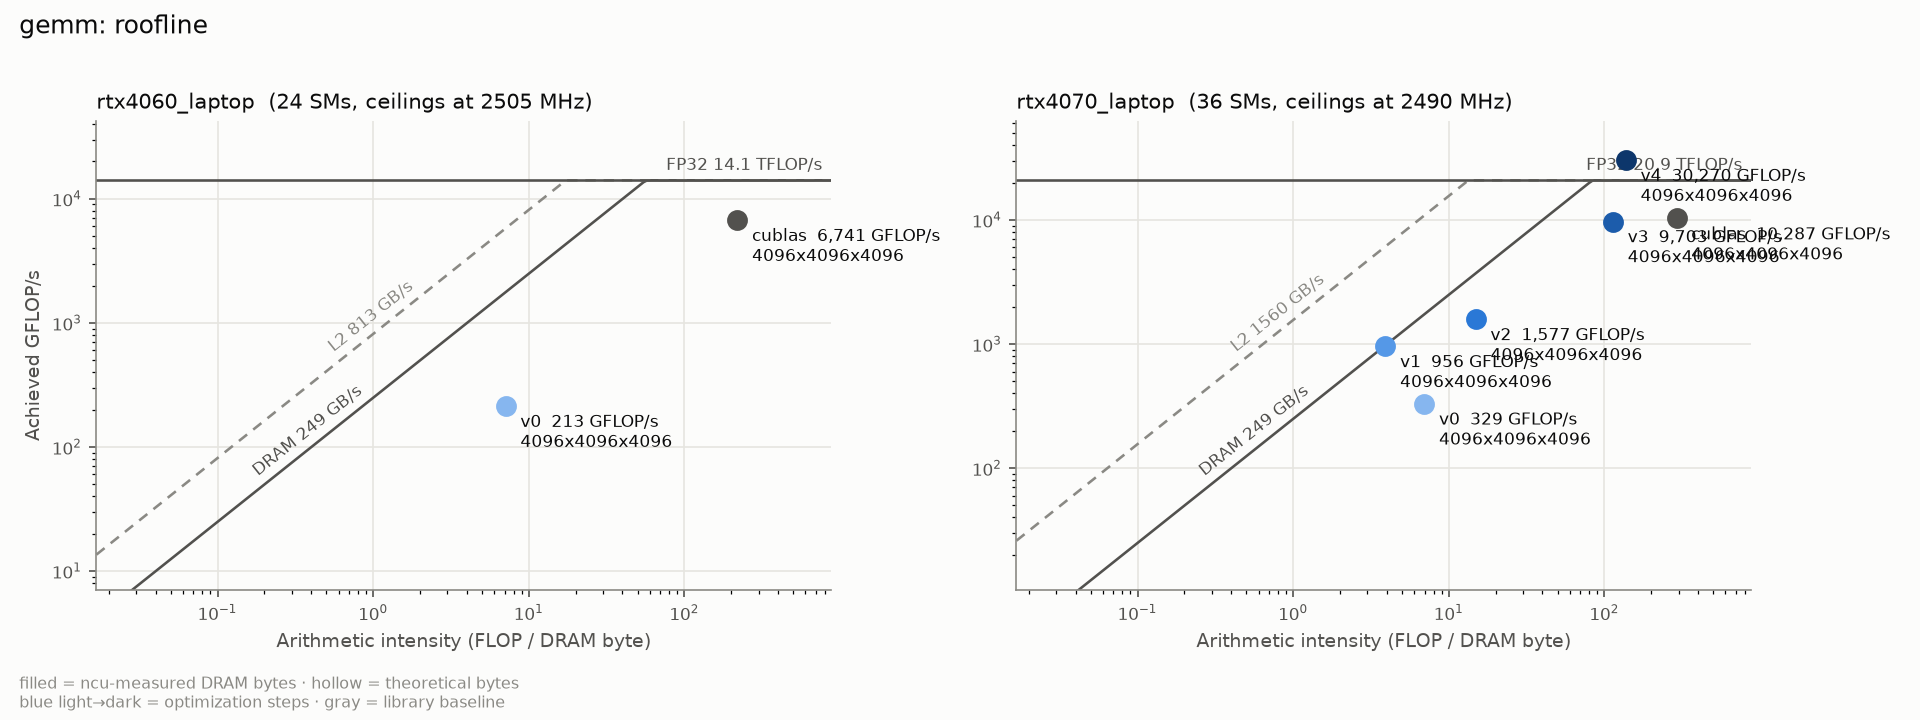
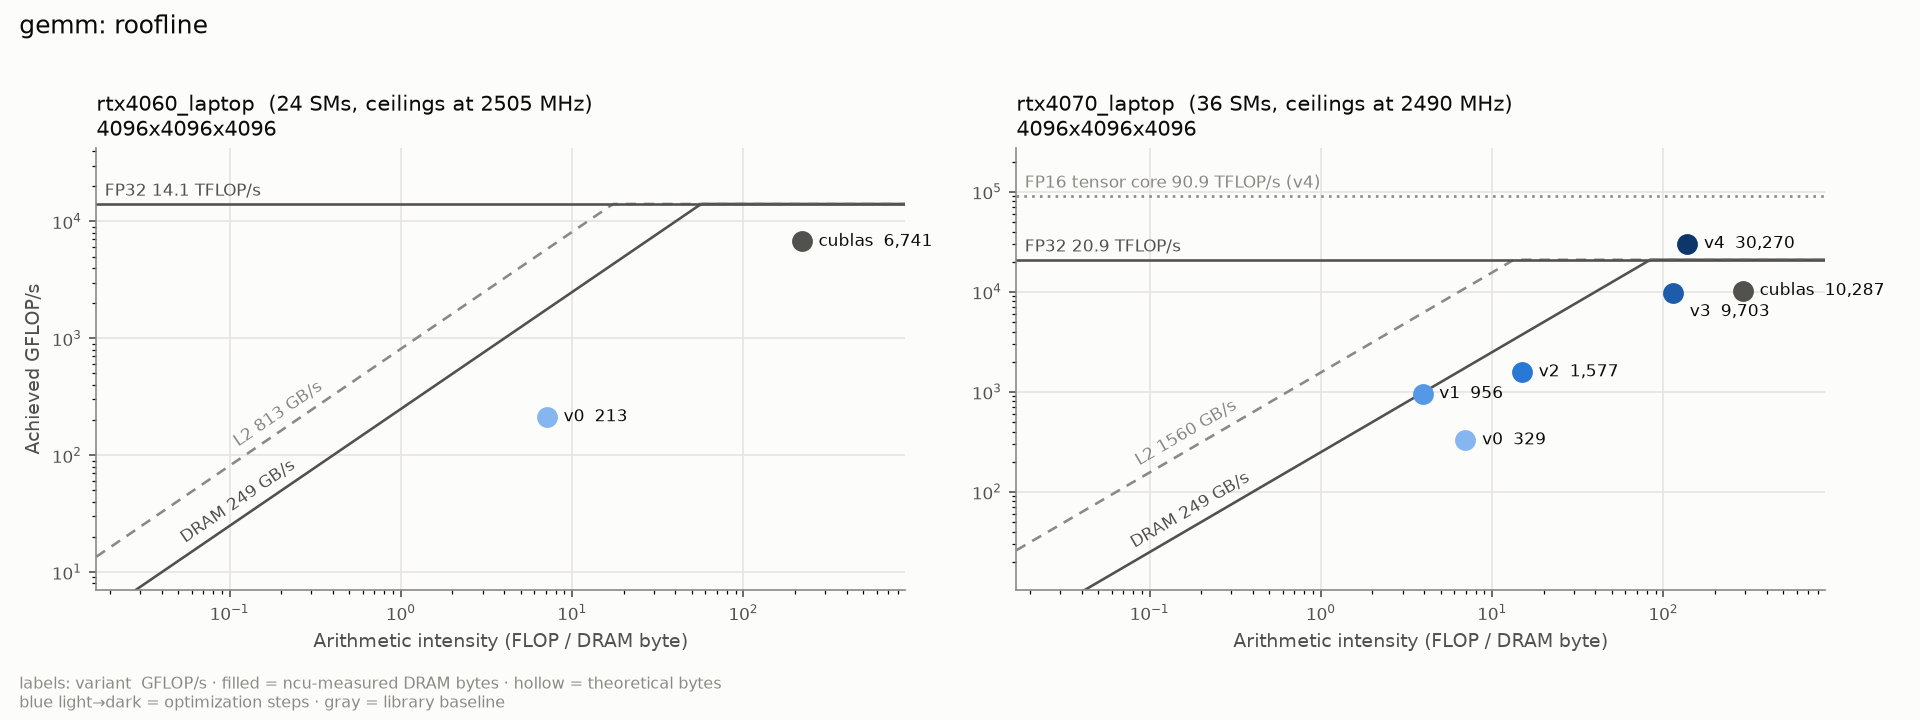
Add the FP16 tensor-core roof and keep point labels from overlapping

diff --git a/analysis/roofline.py b/analysis/roofline.py
@@ -31,6 +31,8 @@ SURFACE, INK, INK_2, INK_3, GRID = "#fcfcfb", "#0b0b0b", "#52514e", "#8a8984", "
 BLUES = ["#86b6ef", "#5598e7", "#2a78d6", "#1c5cab", "#104281", "#0d366b"]  # steps 250..700
 BASELINE = INK_2
 BASELINES = {"cublas", "torch", "cudnn"}
+# Variants that take FP16 inputs and run on tensor cores: they get the FP16 tensor-core roof.
+TENSOR_CORE_VARIANTS = {"gemm": {"v4"}}
 
 
 def load_specs() -> dict:
@@ -91,9 +93,33 @@ def place_slope_labels(labels) -> None:
                     color=color, rotation=angle, rotation_mode="anchor", ha="left", va="bottom")
 
 
-def draw_panel(ax, spec: dict, picked: dict[str, dict], xlim: tuple[float, float]) -> list:
+def declutter(texts, pad_pt: float = 2.0) -> None:
+    """Nudge point labels down until none overlaps an earlier one (greedy, top to bottom).
+    Call after layout is final, since it measures rendered extents."""
+    if not texts:
+        return
+    fig = texts[0].figure
+    renderer = fig.canvas.get_renderer()
+    px_per_pt = fig.dpi / 72
+    placed = []
+    for t in sorted(texts, key=lambda t: -t.get_window_extent(renderer).y1):
+        for _ in range(40):
+            box = t.get_window_extent(renderer).expanded(1.0, 1.0)
+            hit = next((p for p in placed if box.overlaps(p)), None)
+            if hit is None:
+                break
+            dy = (box.y1 - hit.y0) / px_per_pt + pad_pt  # move just below the box it hits
+            x, y = t.xyann
+            t.xyann = (x, y - dy)
+        placed.append(t.get_window_extent(renderer))
+
+
+def draw_panel(ax, spec: dict, picked: dict[str, dict], xlim: tuple[float, float],
+               kernel: str) -> tuple[list, list]:
     c = spec["ceilings"]
     peak = c["fp32_gflops"]
+    tensor = [v for v in picked if v in TENSOR_CORE_VARIANTS.get(kernel, ())]
+    tc_peak = c.get("fp16_tc_fp32acc_gflops") if tensor else None
     roofs = [("DRAM", c["dram_read_gbs"], "-", INK_2), ("L2", c["l2_read_gbs"], (0, (4, 3)), INK_3)]
     xs = [xlim[0] * (xlim[1] / xlim[0]) ** (i / 200) for i in range(201)]
     slope_labels = []
@@ -102,10 +128,18 @@ def draw_panel(ax, spec: dict, picked: dict[str, dict], xlim: tuple[float, float
         ax.plot(xs, [min(peak, bw * x) for x in xs], ls=style, lw=1.25, color=color, zorder=1)
         slope_labels.append((ax, y / bw, y, bw, f"{name} {bw:.0f} GB/s", color))
     ax.axhline(peak, color=INK_2, lw=1.25, zorder=1)
-    ax.annotate(f"FP32 {peak / 1000:.1f} TFLOP/s", xy=(xlim[1], peak), xytext=(-4, 5),
-                textcoords="offset points", ha="right", fontsize=8, color=INK_2)
+    ax.annotate(f"FP32 {peak / 1000:.1f} TFLOP/s", xy=(xlim[0], peak), xytext=(4, 4),
+                textcoords="offset points", ha="left", fontsize=8, color=INK_2)
+    if tc_peak:
+        # FP16-input variants run on the tensor pipe, so their compute roof is this one; their
+        # bandwidth roofs are the same lines, since the x axis is FLOP per byte actually moved.
+        ax.axhline(tc_peak, color=INK_3, lw=1.25, ls=(0, (1, 2)), zorder=1)
+        ax.annotate(f"FP16 tensor core {tc_peak / 1000:.1f} TFLOP/s ({', '.join(tensor)})",
+                    xy=(xlim[0], tc_peak), xytext=(4, 4), textcoords="offset points",
+                    ha="left", fontsize=8, color=INK_3)
 
     steps = [v for v in picked if v not in BASELINES]
+    texts = []
     for v, r in picked.items():
         x, y, measured = point(r)
         if v in BASELINES:
@@ -115,13 +149,14 @@ def draw_panel(ax, spec: dict, picked: dict[str, dict], xlim: tuple[float, float
             color = BLUES[min(len(BLUES) - 1, i * (len(BLUES) - 1) // max(1, len(steps) - 1))]
         ax.scatter([x], [y], s=64, marker="o", zorder=3, linewidths=2,
                    facecolors=color if measured else SURFACE, edgecolors=color)
-        ax.annotate(f"{v}  {y:,.0f} GFLOP/s\n{r['dims']}", xy=(x, y), xytext=(7, -3),
-                    textcoords="offset points", fontsize=8, color=INK, va="top")
+        texts.append(ax.annotate(f"{v}  {y:,.0f}", xy=(x, y), xytext=(8, 0),
+                                 textcoords="offset points", fontsize=8, color=INK,
+                                 va="center", ha="left"))
 
     ax.set_xscale("log")
     ax.set_yscale("log")
     ax.set_xlim(*xlim)
-    ax.set_ylim(peak / 2000, peak * 3)
+    ax.set_ylim(peak / 2000, max(peak, tc_peak or 0) * 3)
     ax.set_facecolor(SURFACE)
     ax.grid(True, which="major", color=GRID, lw=0.8)
     ax.set_axisbelow(True)
@@ -131,10 +166,11 @@ def draw_panel(ax, spec: dict, picked: dict[str, dict], xlim: tuple[float, float
         ax.spines[side].set_color(INK_3)
     ax.tick_params(colors=INK_2, labelsize=8)
     clk = c.get("sm_clk_mhz")
-    ax.set_title(f"{spec['gpu']}  ({spec['device']['sm_count']} SMs, ceilings at {clk} MHz)",
-                 fontsize=10, color=INK, loc="left")
+    dims = sorted({r["dims"] for r in picked.values()}, key=_dims_size)
+    ax.set_title(f"{spec['gpu']}  ({spec['device']['sm_count']} SMs, ceilings at {clk} MHz)\n"
+                 f"{' / '.join(dims)}", fontsize=10, color=INK, loc="left")
     ax.set_xlabel("Arithmetic intensity (FLOP / DRAM byte)", fontsize=9, color=INK_2)
-    return slope_labels
+    return slope_labels, texts
 
 
 def plot_kernel(kernel: str, specs: dict, dims: str | None, out_dir: Path) -> Path | None:
@@ -147,16 +183,21 @@ def plot_kernel(kernel: str, specs: dict, dims: str | None, out_dir: Path) -> Pa
 
     fig, axes = plt.subplots(1, len(panels), figsize=(6.4 * len(panels), 4.8), sharey=False,
                              squeeze=False, facecolor=SURFACE)
-    labels = []
+    labels, point_labels = [], []
     for ax, (gpu, picked) in zip(axes[0], panels):
-        labels += draw_panel(ax, specs[gpu], picked, xlim)
+        slopes, texts = draw_panel(ax, specs[gpu], picked, xlim, kernel)
+        labels += slopes
+        point_labels.append(texts)
     axes[0][0].set_ylabel("Achieved GFLOP/s", fontsize=9, color=INK_2)
     fig.suptitle(f"{kernel}: roofline", fontsize=12, color=INK, x=0.01, ha="left")
-    fig.text(0.01, 0.01, "filled = ncu-measured DRAM bytes · hollow = theoretical bytes\n"
-             "blue light→dark = optimization steps · gray = library baseline",
+    fig.text(0.01, 0.01, "labels: variant  GFLOP/s · filled = ncu-measured DRAM bytes · "
+             "hollow = theoretical bytes\nblue light→dark = optimization steps · "
+             "gray = library baseline",
              fontsize=7.5, color=INK_3, va="bottom")
     fig.tight_layout(rect=(0, 0.06, 1, 0.97))
     place_slope_labels(labels)
+    for texts in point_labels:
+        declutter(texts)
     out_dir.mkdir(parents=True, exist_ok=True)
     out = out_dir / f"{kernel}.png"
     fig.savefig(out, dpi=150)
